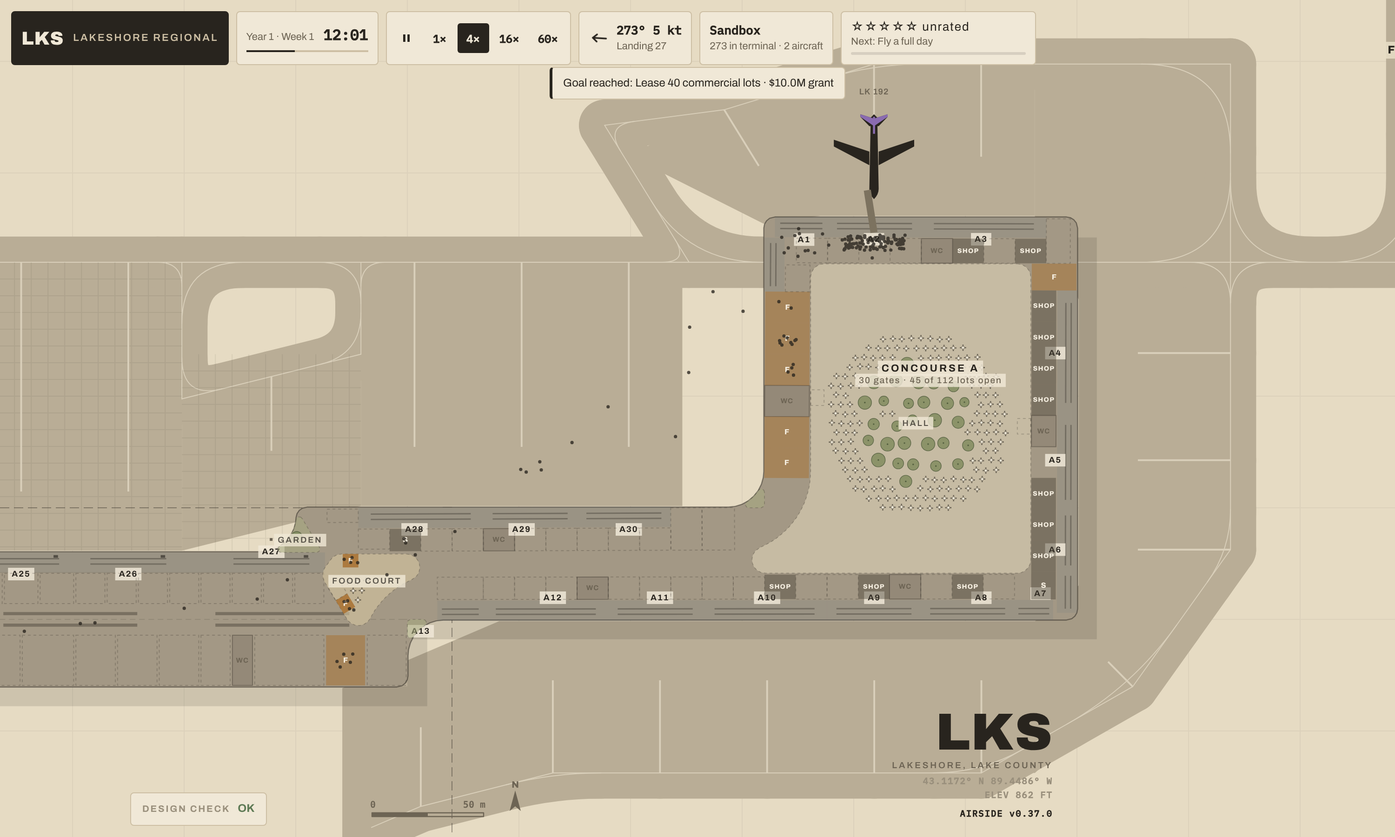
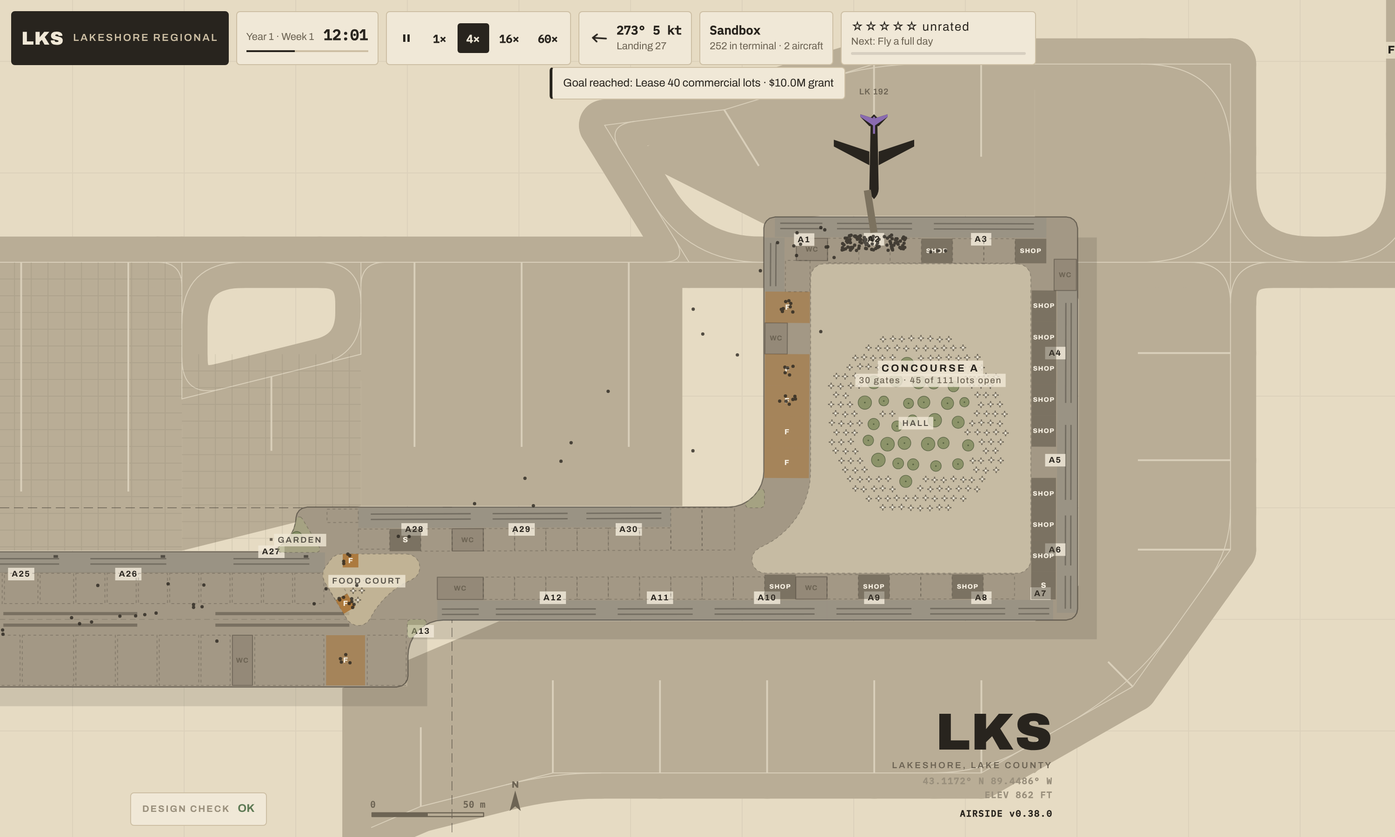
v0.38: fixes from review
Restroom cores get their own pass: on the module grid from the area's first
corner (so an edit moves only its own wall's), tried beside until one fits, 10 m
deep, with no counter in front; the per-gate holdroom sizing is dropped (every
class's holdroom is the 9 m minimum today).

Claude-Session: https://claude.ai/code/session_01XxijruEnEziLvLsYMktvW3

diff --git a/src/bands.ts b/src/bands.ts
@@ -371,9 +371,7 @@ export function carveFree(z: Zone, rings: Pt[][], gates: Gate[], others: Zone[] 
   const items: LItem[] = []; const shops: Shop[] = []; const kinds: Record<string, number> = {};
   let hold = 0, commerce = 0, seats = 0, windowLots = 0;
   const H = holdDepth(z.cls ?? 2), R = freeRing(z.cls ?? 2);
-  // (v0.38: each gate's holdroom is sized for its own aircraft, which may be smaller than the area's: a stand downsized
-  //  to fit leaves the lot behind its holdroom the depth it does not need)
-  const Hg = (g: Gate) => Math.min(H, holdDepth(g.cls));
+
   const P = z.poly!; const o0 = P[0];
   const horiz = z.w >= z.h, long = Math.max(z.w, z.h); const F = frameOf(z);
   const inside = (p: Pt) => rings.reduce((n, r) => n + (pointInPoly(p, r) ? 1 : 0), 0) % 2 === 1 && pointInPoly(p, P);
@@ -455,7 +453,7 @@ export function carveFree(z: Zone, rings: Pt[][], gates: Gate[], others: Zone[] 
     for (let k = 0; k < mods.length;) {
       const g = mods[k].g; let e = k; while (e + 1 < mods.length && mods[e + 1].g === g) e++;
       if (g) {
-        const hd = Math.min(Hg(g), ...mods.slice(k, e + 1).map(m => m.d));
+        const hd = Math.min(H, ...mods.slice(k, e + 1).map(m => m.d));
         const q = hd >= 4 ? fit(w, mods[k].s0, mods[e].s1, 0, hd) : null;
         if (q) {
           laid.push(q); items.unshift({ k: 'hold', pts: q, closed: true }); const len = dist(q[0], q[1]); hold += len * hd;
@@ -465,28 +463,36 @@ export function carveFree(z: Zone, rings: Pt[][], gates: Gate[], others: Zone[] 
       k = e + 1;
     }
   });
-  // ---- v0.38: restroom cores, as in a concourse: about every `FREE.wc` m along the walls (and at least one), each in
-  //      place of a lot, a window lot by preference (a gate's own module stays a way through)
+  // ---- v0.38: restroom cores, as in a concourse: about every `FREE.wc` m along the walls, each where a lot would be
+  //      (and in front of it, less deep), laid before the lots. Their places hang on the same grid from the area's
+  //      first corner as the modules (every `FREE.wc` m of it, a module or two either way if that one cannot take a
+  //      core), so an edit to one wall moves no core on another; an area whose walls are too short for that grid to
+  //      give one gets one where it best can.
+  const span = (w: Wall, m: { g: Gate | null; d: number }) => { const hd = m.g ? Math.min(H, m.d) : 0; return { d0: m.g ? hd + 0.5 : 0.5, d1: m.d - 0.5 }; };
+  const core = (w: Wall, m: { s0: number; s1: number; g: Gate | null; d: number; door: boolean; wc: boolean }) => {
+    if (m.door || m.wc) return false; const { d0, d1 } = span(w, m); if (d1 - d0 < 4) return false;
+    const pts = fit(w, m.s0, m.s1, d0, Math.min(d1, d0 + FREE.wcDepth)); if (!pts) return false;
+    m.wc = true; laid.push(pts); items.push({ k: 'wc', pts, closed: true, label: 'WC' }); return true;
+  };
   {
-    const all = walls.flatMap((w, wi) => plan[wi].map(m => ({ m, len: m.s1 - m.s0 })));
-    const total = all.reduce((t, q) => t + q.len, 0);
-    if (total >= FREE.module * 3) {
-      const n = Math.max(1, Math.round(total / FREE.wc)); let at = 0; const mids = all.map(q => { const c = at + q.len / 2; at += q.len; return c; });
-      for (let k = 0; k < n; k++) {
-        const want = (total * (k + 0.5)) / n;
-        let best = -1, bc = Infinity;
-        all.forEach((q, i) => { if (q.m.door || q.m.wc || q.m.d < 6) return; const c = Math.abs(mids[i] - want) + (q.m.g ? FREE.module * 1.5 : 0); if (c < bc) { bc = c; best = i; } });
-        if (best >= 0) all[best].m.wc = true;
-      }
-    }
+    const per = Math.max(1, Math.round(FREE.wc / FREE.module)); let laidAny = false;
+    walls.forEach((w, wi) => {
+      const mods = plan[wi]; const gi = mods.map(m => Math.floor(((m.c.x - o0.x) * w.t.x + (m.c.y - o0.y) * w.t.y) / FREE.module));
+      mods.forEach((m, k) => {
+        if ((((gi[k] % per) + per) % per) !== Math.floor(per / 2)) return;
+        // (the one on the grid, or the nearest beside it that can take a core, no gate's module before one without)
+        const order = [0, 1, -1, 2, -2].map(o => k + o).filter(q => q >= 0 && q < mods.length).sort((p, q) => Number(!!mods[p].g) - Number(!!mods[q].g));
+        for (const q of order) if (core(w, mods[q])) { laidAny = true; break; }
+      });
+    });
+    if (!laidAny) for (const [wi, w] of walls.entries()) { if (plan[wi].some(m => core(w, m))) break; }
   }
   // ---- then the lots: behind a holdroom, facing the hall (none at the gate itself: that is the way through); or one
   //      deep window lot where there is no gate
   walls.forEach((w, wi) => plan[wi].forEach(m => {
-    const hd = m.g ? Math.min(Hg(m.g), m.d) : 0; const d0 = m.g ? hd + 0.5 : 0.5, d1 = m.d - 0.5;
-    if (m.door || d1 - d0 < 4) return;
+    const { d0, d1 } = span(w, m);
+    if (m.door || m.wc || d1 - d0 < 4) return;
     const pts = fit(w, m.s0, m.s1, d0, d1); if (!pts) return;
-    if (m.wc) { laid.push(pts); items.push({ k: 'wc', pts, closed: true, label: 'WC' }); return; }
     const key = keyOf(m.c, w.n); if (keys.has(key)) return; keys.add(key); laid.push(pts);
     const fw = dist(pts[2], pts[3]); const door = { x: (pts[2].x + pts[3].x) / 2 + w.n.x * 1.4, y: (pts[2].y + pts[3].y) / 2 + w.n.y * 1.4 };
     const area = fw * (d1 - d0); const win = !m.g;

diff --git a/src/config.ts b/src/config.ts
@@ -337,7 +337,7 @@ export const LOD = {
  *  range (8–15 m, see bands.ts). Along a wall without gates: one deep window lot (restaurants, lounges) of the same
  *  total depth. Lots are `module` m of frontage. Where the area is thin, the bands on facing walls stop short of each
  *  other to leave `aisle` m to walk down (ACRP Report 25 gives 9–14 m for a main circulation width). */
-export const FREE = { lot: 12, module: 14, aisle: 10, wc: 160 };   // (wc: a restroom core about every 160 m of wall, as in a concourse: no seat more than about 90 m from one)
+export const FREE = { lot: 12, module: 14, aisle: 10, wc: 160, wcDepth: 10 };   // (wc: a restroom core about every 160 m of wall, as in a concourse: no seat more than about 90 m from one; wcDepth: how deep it is, a module wide)
 export const COMMERCE = {
   // v0.26: lots that front a junction space (a hall, food court or garden the building keeps where its pieces meet)
   plazaReach: 9,           // a lot this close to the space fronts it, m

diff --git a/src/world.ts b/src/world.ts
@@ -636,7 +636,8 @@ export function derive(source: World): Derived {
     // (and not against a wall with stands: a gate door wants its holdroom, not a kitchen)
     const doors = gates.filter(g => j.ids.includes(g.zone.id)).map(g => g.door);
     // (v0.33: nor in front of a free area's lots, which face the space across its edge: a counter would block their shopfront)
-    const fronts = others.filter(sh => sh.zone.poly && sh.key.startsWith('F'));
+    // (v0.38: and not in front of a free area's restroom core, which faces the space as its lots do)
+    const fronts: { pts: Pt[] }[] = [...others.filter(sh => sh.zone.poly && sh.key.startsWith('F')), ...j.ids.filter(id => world.zones.find(q => q.id === id)?.poly).flatMap(id => (bandItems.get(id) ?? []).filter(it => it.k === 'wc' && it.pts.length === 4))];
     const blocks = (q: Pt[]) => {
       const c = polyCentre(q);
       return fronts.some(sh => {

diff --git a/CLAUDE.md b/CLAUDE.md
@@ -146,7 +146,7 @@ Healthy results:
   - v0.31: junction spaces trade. shell.ts `counters(j, ends)` lays `JUNCTION.counter` quads along each straight stretch of a food court's or hall's outer ring, facing in, wholly inside the space and clear of spine ends (`ends`, the ends of the cut `spine` / `lane` runs near it). It skips counters within `counter.door` of a gate door. derive turns each into a `Shop` of the space's first piece (`court: true`, key `J<sorted piece ids>@<x>,<y>` in that piece's frame, so it is stable while the building is, `u0`/`u1` on that piece's footfall axis, the median prior of its lots), unless it overlaps one of the pieces' own lots. `bidsFor` lets only food formats bid for a court lot and the neighbour rule ignores them; `letLots` ranks court lots after the others; the zone's `lease.max` excludes them and `lease.courts` counts them, and `sim.leased` lets the first `ceil(courts × count / max)` of them (by bid), so they follow the building's own lots; the day-end lease growth counts only visits to the building's own lots (`shopDay.own`); `fit` raises its capacity to `COMMERCE.courtCap` (the shared tables). Tables are kept `counter.depth + 2.5` m in from the edge. render.ts paints counters (`paintLot`, shared with the pieces' lots) over the space's floor; ui.ts picks a lot from every piece of the building under the cursor.
   - So far the shell is used for drawing (the plan view fills and strokes each shell once and skips its pieces' own bodies and parapets; 3D adds one roof slab), for naming (`buildGateAreas` takes `group`: pieces of one shell share a gate letter and one run of gate numbers; the plan labels a multi-piece building once), and nothing else.
   - v0.32: free-drawn areas and cut-outs. A free area is a concourse `Zone` with `poly` (its corners; x, y, w, h are their bounding box, and `setGeom` moves the corners with it). shapes.ts handles `poly` everywhere a shape is asked about (`zonePts`, `zoneParts` by ear-clipped triangles, `inZone`, `clampInto` and `heart` by `poleOf`), and `gripsOf` gives a vertex grip `v<i>` per corner. A cut-out is `world.cuts: Cut[] { id, level, pts }` (shell.ts), not a zone: `shellsOf(zones, cuts)` takes every cut-out that reaches a building away from it after the fillet and ease (so a narrow one is not filled back in), eases the corners it made, and marks the shell `cut`. `junctionsOf` treats a free area as a core (its whole floor inside the shell is a hall, food court or garden by area) and a one-piece building with a cut-out or free area gets its spaces too; holes are courts as before. derive gives a free area no bands (`openBudget`), walks its stands along the shell (`shellWalks` takes every shell with a cut-out or a free area), and drops lots and closed fit-out under a cut-out and cuts the `spine` / `lane` lines at it. A hall of over 10,000 m² gets at most one counter per `JUNCTION.counter.per` m², and its grove and seating are capped to a share of the floor. ui.ts: tools `area` (F) and `cut` (Q) reuse the path-drawing state (`this.path`; `polyClick` / `polyPreview` / `polyBuild`); a click inside a cut-out with the cut tool removes it. `canPlacePier` accepts a `poly` (simple, at least `AREA.min` m², config.ts). render3d.ts models any shell with a cut-out or free area from its rings (plinth, glass round every ring, roof) and skips its pieces' boxes. `migrateWorld` drops outlines that cross themselves.
-  - v0.33: a free area is planned from its walls in. bands.ts `carveFree(z, rings, gates, others)` takes the rings of every shell the area is in (a cut-out may split it) and the other pieces of those shells. It cuts each ring into ~2 m stations, keeps those on the area's own outline (within 0.6 m of it and not inside another piece, so neither the shell's filleted corners nor a neighbour's wall running on in line count), and makes a wall of each run facing one way. Each wall is cut into modules on a `FREE.module` grid measured from the area's first corner (so a wall that grows or shrinks changes only its end modules). A module within 0.55 gate spacings of one of the area's gate doors belongs to that gate. Holdrooms go first: one quad per gate per wall, `holdDepth(z.cls)` deep (at least 4 m), with seat rows; then lots: behind a holdroom, `FREE.lot` deep facing the hall, except the module nearest the door (the way through); on a wall with no gate, one window lot the whole band deep. Every band stops short of the middle of the floor less `FREE.aisle`. Every piece is a convex quad, tested against everything laid so far (separating axes) and against the other pieces, and cut back from either end in 2 m steps until it fits. Lot keys are `F<dx>,<dy>@<facing>`: the module's middle on the wall from the area's first corner, in metres, and the wall's facing in sixteenths, so they hold while the area is moved. `u0`/`u1` are on the frame's long axis, as the sim counts footfall. `junctionsOf(shells, zones, ring)` takes the band depth (`freeRing`): a free area's core is its outline within the building's outer wall moved in and every courtyard grown out by `ring + JUNCTION.grow` (each wound positive first: the shell's rings are not), holes kept, so after the usual grow the hall stops at the band, round courtyards too. derive drops a counter standing in the strip in front of a free area's shopfront. v0.38: each holdroom is `min(holdDepth(z.cls), holdDepth(g.cls))` deep (`Hg`), and the lot behind it starts there; after the holdrooms, restroom cores are chosen along the walls in order, one about every `FREE.wc` m of wall (at least one when the walls hold three modules), each the module nearest its place (not a gate's door module, preferring one with no gate) and laid where its lot would be as a `wc` item.
+  - v0.33: a free area is planned from its walls in. bands.ts `carveFree(z, rings, gates, others)` takes the rings of every shell the area is in (a cut-out may split it) and the other pieces of those shells. It cuts each ring into ~2 m stations, keeps those on the area's own outline (within 0.6 m of it and not inside another piece, so neither the shell's filleted corners nor a neighbour's wall running on in line count), and makes a wall of each run facing one way. Each wall is cut into modules on a `FREE.module` grid measured from the area's first corner (so a wall that grows or shrinks changes only its end modules). A module within 0.55 gate spacings of one of the area's gate doors belongs to that gate. Holdrooms go first: one quad per gate per wall, `holdDepth(z.cls)` deep (at least 4 m), with seat rows; then lots: behind a holdroom, `FREE.lot` deep facing the hall, except the module nearest the door (the way through); on a wall with no gate, one window lot the whole band deep. Every band stops short of the middle of the floor less `FREE.aisle`. Every piece is a convex quad, tested against everything laid so far (separating axes) and against the other pieces, and cut back from either end in 2 m steps until it fits. Lot keys are `F<dx>,<dy>@<facing>`: the module's middle on the wall from the area's first corner, in metres, and the wall's facing in sixteenths, so they hold while the area is moved. `u0`/`u1` are on the frame's long axis, as the sim counts footfall. `junctionsOf(shells, zones, ring)` takes the band depth (`freeRing`): a free area's core is its outline within the building's outer wall moved in and every courtyard grown out by `ring + JUNCTION.grow` (each wound positive first: the shell's rings are not), holes kept, so after the usual grow the hall stops at the band, round courtyards too. derive drops a counter standing in the strip in front of a free area's shopfront. v0.38: after the holdrooms, restroom cores (`wc` items, a module wide and `FREE.wcDepth` deep where its lot would start) are laid on the modules whose grid index along their wall, measured from the area's first corner, is the middle of each `FREE.wc` m stretch, or the nearest module beside it that can take one (no gate's door module, no gate before a gate, and `fit` must succeed); if the grid gives none, the first module that can take one. Lots skip restroom modules. derive keeps hall counters out of the strip in front of a free area's restroom as of its lots. (Every class's `holdDepth` is the 9 m minimum today, so holdrooms are not sized per gate.)
   - v0.35: cut-outs are edited like shapes. render.ts `Sel` has kind `cut`; ui.ts `hitTest` picks a cut-out (`cutAt`: on the active level, at landside or terminal detail, where no shell's floor remains and no gate slot, other terminal module or road is under the point) before the site or building under it, and never picks a concourse where a cut-out has taken its floor; `cutCorner` finds a selected cut-out's corner (hover shows it); `selHit` / `hitToSel` / `demolish` / the inspector know it; `drawGrips` draws its outline and a square grip per corner. Dragging a corner (`cutgrip`) or the inside (`cutmove`) changes `k.pts` live through `beginLive([], [k])` (the live state keeps every changed cut-out's corners from before, `live.cuts`, and `endLive(false)` puts them back), checked by `cutCheck` (simple, at least `AREA.minCut`, over a concourse on its level); release charges any added area at `AREA.cutCost`. Moving a concourse whole carries the cut-outs that overlap it and no other concourse (`live.carry`, applied in `liveSet`). `BENDS` now includes security and passport control.
   - v0.36: walking round cut-outs. `shellsOf` gives each part of a cut building its building's `voids`: the floor the cut-outs actually took, after the outline was rounded again (the footprint before the cut less every part, even-odd, since the parts' rings are not wound to Clipper's rule; a slot narrower than about 10 m inside the floor closes again and takes nothing, and a thin strip left beside a cut-out goes). derive's `skirtCuts` are those voids: each one's outline moved in `SKIRT.clear` (the wall a walk may not cross) and its corners moved `SKIRT.off` out along their bisectors (kept where they stand on floor: a shell, or any other terminal module or curb on that level). `pedRoute` runs `skirt` after `thread`: route points in a void (a door it has reached, a bent pier's centreline point) step out to the floor beside it; a leg that crosses a void is replaced by the shortest way through every void corner on that level (Dijkstra on a visibility graph, edges that cross no void and stay on the floor); with no way round it returns null (the building is cut in two, and the design check says so). `Derived.inCut(p, lv)` is in a void and off the floor; sim.ts draws another gate waiting spot when one lands there (up to four, then the door: the extra draws happen only then, so airports with no cut-out replay as before). The lot filter drops a lot with its middle, door or a corner in a cut-out, or any lot a void crosses. gates.ts drops a stand walked round a cut shell (`Walk.cut`) whose door is off the floor.
   - Planned, in order: holdrooms re-planned beside the junction spaces; halls and security joining the shell; then the landside (a curved forecourt, decks that split and rejoin, one road renderer). New drawing tools (free-drawn areas, cut-outs) should add to or take from the shell, not add another kind of piece that everything must learn.
@@ -167,7 +167,7 @@ Healthy results:
 
 ## Roadmap
 
-Foundation (v0.8): three levels of detail, terminal sites, roads and terminals adapting to each other (curbs, two-level frontage roads, snapping), and a 3D view. v0.9: a detailed 3D model and richer plan, goals and a star rating, build feedback, and lots that lay their own sidewalks. v0.10: growth unlocks, self-connecting landside facilities, international flights, the AirTrain, proper road junctions and curbside, undo, weather and airline offers. v0.11: curved roads with bend handles, roundabouts that roads join by themselves, and one-way roads and loops. v0.38: restroom cores and gates of mixed sizes inside a free area. v0.37: taxilane links that find their way round obstacles. v0.36: passengers who walk round courtyards and notches. v0.35: cut-outs selected, reshaped by their corners and moved, that move with their building, and security and passport control that bend. v0.34: halls that bend, with the forecourt, curbs and deck following the curve. v0.33: holdrooms and lots planned inside a free area. v0.32: free-drawn areas and cut-outs. v0.31: food courts and halls with counters that passengers use. v0.30: the ramp terminals' markings in 3D. v0.29: halls, security and passport control that turn on their grips, with the curbs, forecourt, deck and ramps following the turned face. v0.28: deck ramps that leave and rejoin the approach road as built ramps do (taper, speed-change lane, gore, one-way), and a forecourt road that curves round its corners. v0.27: deck ramps that peel off the approach road as a lane and are drawn as roads. v0.26: fit-out that stops at a building's own spaces, lots that front them, and courtyards in 3D. v0.25: halls, food courts, gardens and courtyards where a building's pieces meet. v0.24: stands and aprons laid along a building's merged outline. v0.23: a building's concourses merged into one rounded outline, with one name and one roof. v0.22: a terminal drawn as a line of piers with a hall at each corner. v0.21: piers that taper from one end to the other. v0.20: piers bent into an arc by a middle grip, with stands, taxilanes, interiors and walking routes that follow the curve. v0.19: aprons, taxilanes and links that lay themselves on every open side; grips that stretch, swing and resize what is built; the layout rebuilt live under the cursor; New terminal as an empty site. v0.18: round and polygonal hubs that merge with piers and concourses. v0.17: piers at any angle that merge into the building they are drawn into. v0.16: satellite concourses that link themselves to a terminal by people mover. v0.15: a terminal laid out in one drag. v0.14: the starter airport rebuilt on the hall and its forecourt, and forecourt links that turn a corner. v0.13: deck ramps that split from and rejoin the approach road, and a version stamp. v0.12: check-in and claim as one stacked hall that lays its own two-level forecourt, cars drawn in lanes with gaps and brake lights, and sound. Next, towards free-form airports (the plan first; the sim can wait): a road drawn by hand along a curved face; walk-through duty free inside a free area; S-curves and bends on halls; interiors re-planned along a taper; grips and live rebuilding in 3D; a landside-to-airside people mover with security at the far end, and people-mover loops through several stations. Also: curved taxiways and sidewalks, cars that yield turn by turn in the sim, gates and holdrooms that respond to the taxiway and apron as you drag them, and moving modules in 3D.
+Foundation (v0.8): three levels of detail, terminal sites, roads and terminals adapting to each other (curbs, two-level frontage roads, snapping), and a 3D view. v0.9: a detailed 3D model and richer plan, goals and a star rating, build feedback, and lots that lay their own sidewalks. v0.10: growth unlocks, self-connecting landside facilities, international flights, the AirTrain, proper road junctions and curbside, undo, weather and airline offers. v0.11: curved roads with bend handles, roundabouts that roads join by themselves, and one-way roads and loops. v0.38: restroom cores inside a free area. v0.37: taxilane links that find their way round obstacles. v0.36: passengers who walk round courtyards and notches. v0.35: cut-outs selected, reshaped by their corners and moved, that move with their building, and security and passport control that bend. v0.34: halls that bend, with the forecourt, curbs and deck following the curve. v0.33: holdrooms and lots planned inside a free area. v0.32: free-drawn areas and cut-outs. v0.31: food courts and halls with counters that passengers use. v0.30: the ramp terminals' markings in 3D. v0.29: halls, security and passport control that turn on their grips, with the curbs, forecourt, deck and ramps following the turned face. v0.28: deck ramps that leave and rejoin the approach road as built ramps do (taper, speed-change lane, gore, one-way), and a forecourt road that curves round its corners. v0.27: deck ramps that peel off the approach road as a lane and are drawn as roads. v0.26: fit-out that stops at a building's own spaces, lots that front them, and courtyards in 3D. v0.25: halls, food courts, gardens and courtyards where a building's pieces meet. v0.24: stands and aprons laid along a building's merged outline. v0.23: a building's concourses merged into one rounded outline, with one name and one roof. v0.22: a terminal drawn as a line of piers with a hall at each corner. v0.21: piers that taper from one end to the other. v0.20: piers bent into an arc by a middle grip, with stands, taxilanes, interiors and walking routes that follow the curve. v0.19: aprons, taxilanes and links that lay themselves on every open side; grips that stretch, swing and resize what is built; the layout rebuilt live under the cursor; New terminal as an empty site. v0.18: round and polygonal hubs that merge with piers and concourses. v0.17: piers at any angle that merge into the building they are drawn into. v0.16: satellite concourses that link themselves to a terminal by people mover. v0.15: a terminal laid out in one drag. v0.14: the starter airport rebuilt on the hall and its forecourt, and forecourt links that turn a corner. v0.13: deck ramps that split from and rejoin the approach road, and a version stamp. v0.12: check-in and claim as one stacked hall that lays its own two-level forecourt, cars drawn in lanes with gaps and brake lights, and sound. Next, towards free-form airports (the plan first; the sim can wait): a road drawn by hand along a curved face; walk-through duty free and holdrooms sized by seats inside a free area; S-curves and bends on halls; interiors re-planned along a taper; grips and live rebuilding in 3D; a landside-to-airside people mover with security at the far end, and people-mover loops through several stations. Also: curved taxiways and sidewalks, cars that yield turn by turn in the sim, gates and holdrooms that respond to the taxiway and apron as you drag them, and moving modules in 3D.
 
 The concourse interiors plan has four phases.
 

diff --git a/README.md b/README.md
@@ -39,7 +39,7 @@ There is no server. The build is one self-contained HTML file (~840 KB), with th
 
 ## What's in the alpha (v0.38)
 
-- **Restroom cores and gates of mixed sizes inside a free area (v0.38):** a free area now has restroom cores along its walls, about one every 160 m of wall as in a concourse (so no seat is more than about 90 m from one), each in place of a lot, a window lot by preference; a gate's own way through stays open. Each holdroom is sized for its own gate's aircraft: where a stand has been downsized to fit, its holdroom is shallower and the lot behind it takes the depth it does not need.
+- **Restroom cores inside a free area (v0.38):** a free area now has restroom cores along its walls, about one every 160 m of wall as in a concourse (so no seat is more than about 90 m from one), each a module wide and 10 m deep where a lot would be, a window lot by preference; a gate's own way through stays open, and no food counter stands in front of one. Their places hang on the same grid as the area's lots, so changing one wall moves no restroom on another. (Holdrooms of every aircraft class come out at the 9 m minimum today, so there is nothing yet to size differently for gates of mixed sizes.)
 
 - **Taxilane links that find their way round obstacles (v0.37):** when a run of stands has no straight way out to the airfield, and no way with one turn, its taxilane now finds a way round whatever is in the way: past the corners of the buildings, car parks and aprons nearby and round the ends of roads, keeping its aircraft class's taxilane clearance from buildings (22.5 m, 47.5 m for an A380), clear of roads and out of the runway strip, and preferring a taxiway to a runway as a straight link does. It still only reaches for a taxiway, runway or connected taxilane within 400 m of the stands, so a building far from the airfield stays cut off (and the design check still says so), and the way round may be at most 700 m long. A stand or two in a pocket of a building is still not worth a long way round and goes as before.
 
@@ -400,7 +400,7 @@ The sim never reads the renderer, and the renderer never writes the sim. That sp
 - Halls, security and passport control turn and bend (one arc each). A turned or bent hall keeps its upright neighbours upright: turn security too, or overlap them, to keep them joined. Along a curved face the curbs and the frontage road are short straight lengths, so there is a small wedge between curb pieces, the curb pieces are too short to carry the DEPARTURES and ARRIVALS lettering, and a road the player draws by hand along a curved face grows curbs only where one of its straight lengths runs parallel to the wall. On a tight convex face the road is cut into short pieces at every curb end. A hall bends into one arc only (no S-curves), and its frontage road is self-laid only when no drawn road already fronts it.
 - The figures for the lane and taper lengths are from memory of AASHTO's tables, not checked against the book.
 - A forecourt link that runs on in line with the frontage road, or turns a second corner on its way to a road, keeps its square corners. The forecourt is still straight (it does not follow a curved or angled hall), and the deck has no lane markings in 3D. In 3D a road's surface can vanish when the camera is very close to it (an older fault).
-- A free area's band is one depth all round (the deepest holdroom its class needs and a row of lots), and it does not let walk-through duty free in. Where two walls meet, whatever is laid first keeps the corner and the other piece is cut back, so a corner has no lot shaped to it. A gate right at a corner can stand a few metres from its holdroom. A lot keeps its name (and its tenant) when the area is moved, but not when the wall it is on is moved or turned. Walks choose which door to use on straight-line costs, and the way round a cut-out is added afterwards, so the door chosen can be the wrong side of a courtyard. Gates in a building a cut-out splits stay in service, so a flight there can strand passengers who cannot reach it (the design check warns of the split). A cut-out applies to the departures level only, and is charged by its whole area, even any part of it that lies outside a building. A building moved by its grips (rather than dragged whole) leaves its cut-outs where they are; one left over nothing is drawn dashed, and goes when its building is demolished. The tilted plan view still draws the pieces as before, without cut-outs.
+- A free area's band is one depth all round (a 9 m holdroom and a row of lots), and it does not let walk-through duty free in. An area too narrow for any lot has no restroom core. Moving a free area whole can still rename a few lots whose middles fall on a rounding boundary. Where two walls meet, whatever is laid first keeps the corner and the other piece is cut back, so a corner has no lot shaped to it. A gate right at a corner can stand a few metres from its holdroom. A lot keeps its name (and its tenant) when the area is moved, but not when the wall it is on is moved or turned. Walks choose which door to use on straight-line costs, and the way round a cut-out is added afterwards, so the door chosen can be the wrong side of a courtyard. Gates in a building a cut-out splits stay in service, so a flight there can strand passengers who cannot reach it (the design check warns of the split). A cut-out applies to the departures level only, and is charged by its whole area, even any part of it that lies outside a building. A building moved by its grips (rather than dragged whole) leaves its cut-outs where they are; one left over nothing is drawn dashed, and goes when its building is demolished. The tilted plan view still draws the pieces as before, without cut-outs.
 - A food court's counters are kiosk-sized grab-and-go lots; there are no sit-down restaurants in a food court yet, and its seating is drawn but not modelled seat by seat. A gate whose holdroom fell in a hall keeps its capacity but has no seats drawn. Halls, food courts and gardens under the roof are not shown in 3D or in the tilted plan view; courtyards are shown in 3D.
 - The merged outline carries the stands, but interiors, selection and the tilted plan view still work on the separate pieces, so a rounded corner can show a sliver of floor with nothing planned on it, a gate at a filled-in junction can have its door a few metres from its holdroom, roof glazing lines of two pieces cross at a junction, and the Operations panel still counts pieces as concourses. Halls and security keep their own square outlines.
 - On a building of several pieces a gate is named by where it is along its wall, so its name can change when that piece is reshaped, and gates switched off before v0.24 on such buildings may now refer to a different stand. The inspector's side-by-side gate list is empty for such pieces. A one-piece building keeps its gate names.
